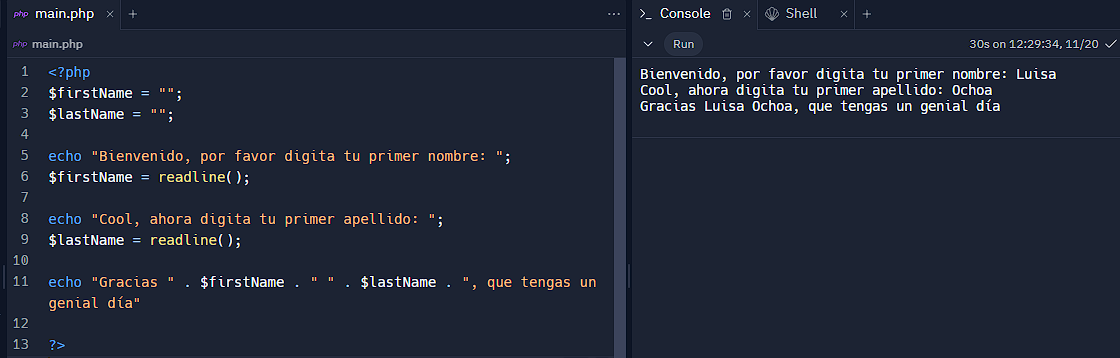
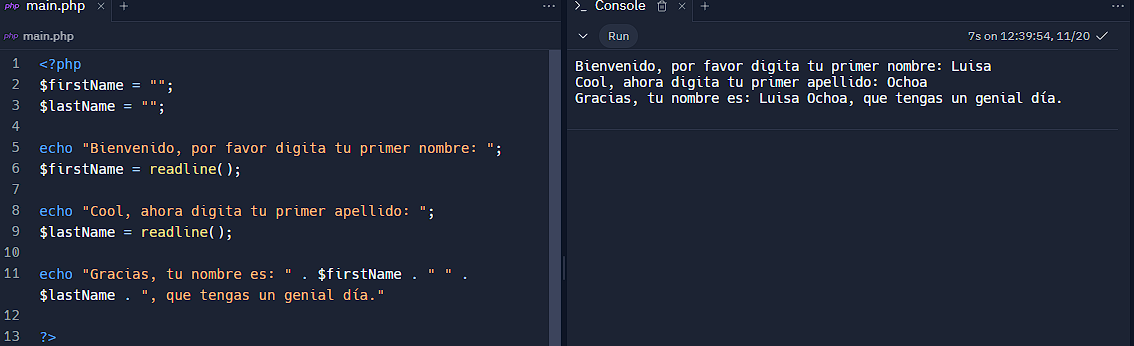
Punto-5

diff --git a/punto-5/index.php b/punto-5/index.php
@@ -1,0 +1,19 @@
+<?php
+const TICKET_PRICE = 25000;
+$typeMembership = "";
+$numberPersons = 0;
+
+echo "Digita tu tipo de afiliación: ";
+$typeMembership = readline();
+
+echo "Digita el número de personas a ingresar: ";
+$numberPersons = readline();
+
+if (strtoupper($typeMembership) == "A" || strtoupper($typeMembership) == "B") {
+  echo "El valor total de las entradas es: $" . ($numberPersons * (TICKET_PRICE * 0.7));
+}
+
+else {
+  echo "El valor total de las entradas es: $" . ($numberPersons * TICKET_PRICE);
+}
+?>

diff --git a/punto-4/index.php b/punto-4/index.php
@@ -8,6 +8,6 @@ $firstName = readline();
 echo "Cool, ahora digita tu primer apellido: ";
 $lastName = readline();
 
-echo "Gracias " . $firstName . " " . $lastName . ", que tengas un genial día"
+echo "Gracias, tu nombre es: " . $firstName . " " . $lastName . ", que tengas un genial día."
 
 ?>

diff --git a/README.md b/README.md
@@ -22,6 +22,8 @@
 
 <h2>Punto 5: Entrada de bolera usando if / else</h2>
 
+<img src="./public/images/punto-5.png" alt="punto-5">
+
 <h2>Punto 6: Detección de mayoría de edad</h2>
 
 <h2>Punto 7: Selección de operación aritmética</h2>
